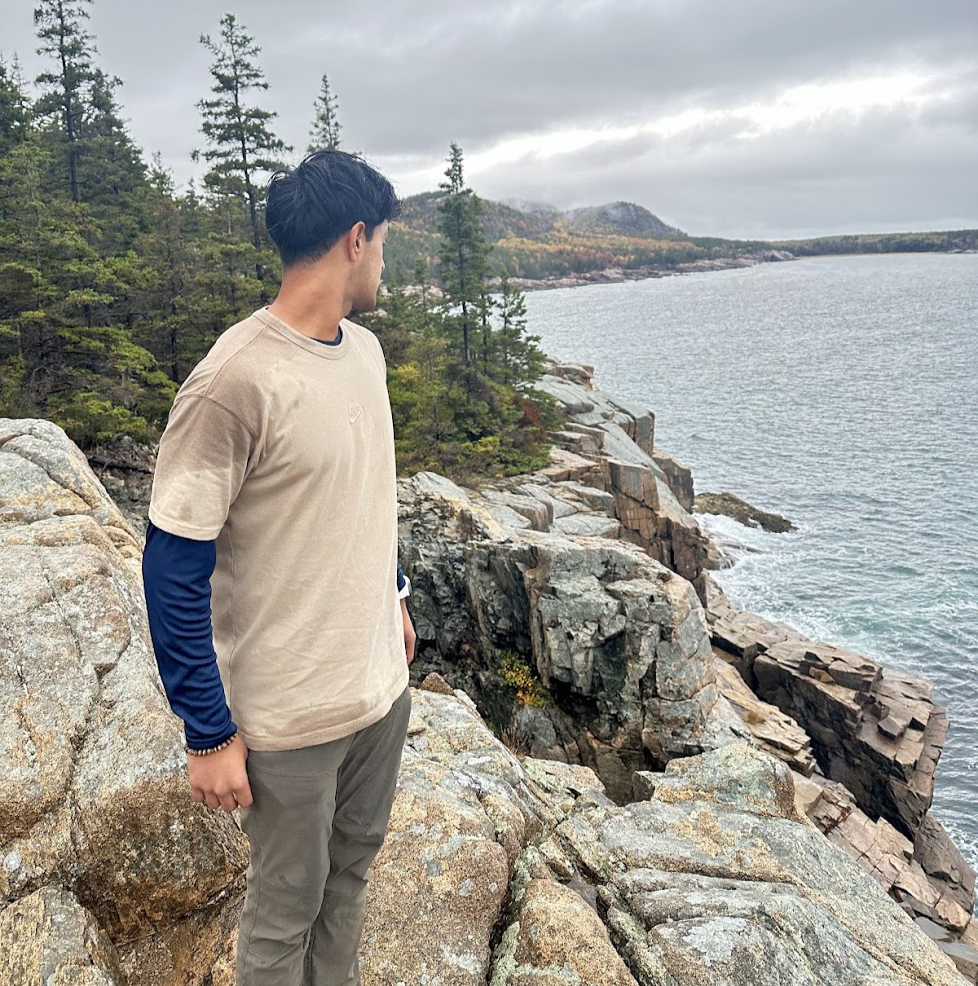
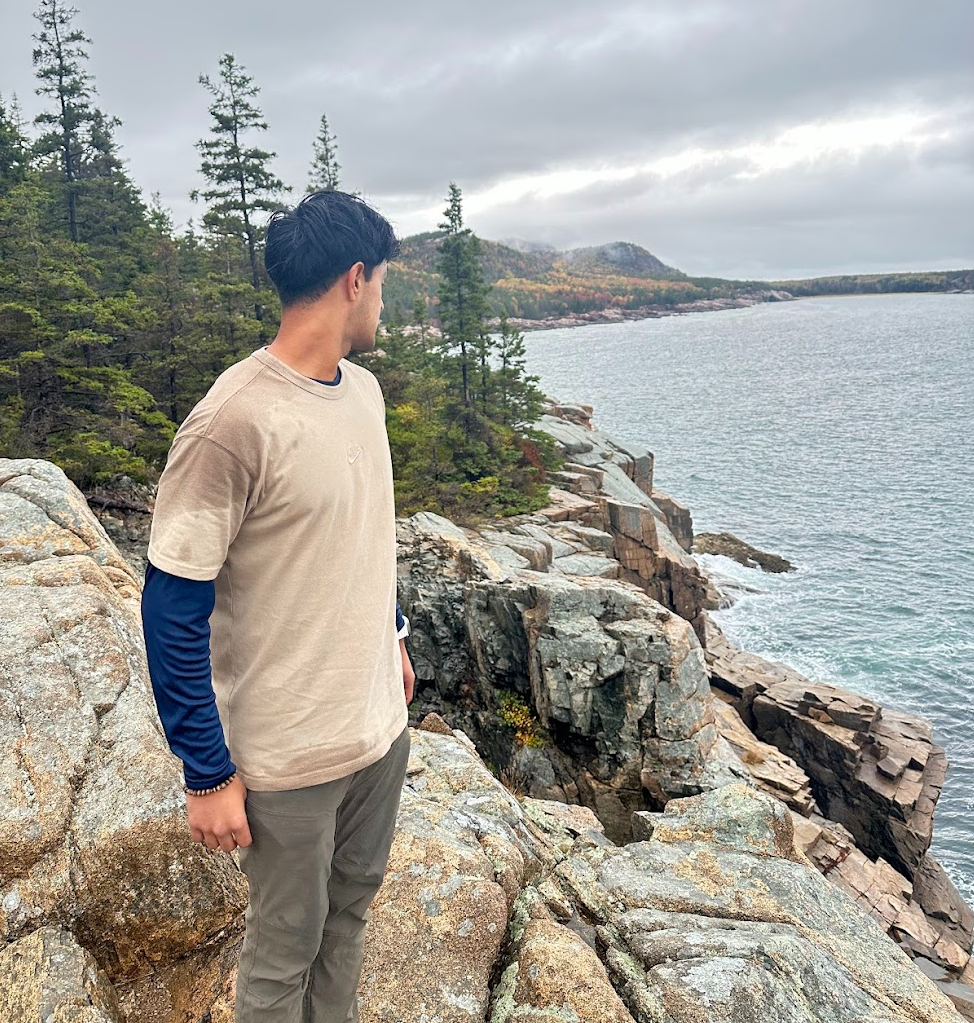
fixed pfp?

diff --git a/index.html b/index.html
@@ -66,7 +66,7 @@
             <h1 class="title">About Me</h1>
             <div class="section-container">
                 <div class="section__pic-container">
-                    <img src="./assets/about-pic.PNG" alt="Profile Picture"
+                    <img src="./assets/about-pic.png" alt="Profile Picture"
                     class="about-pic"/>
                 </div>
                 <div class="about-details-container">
